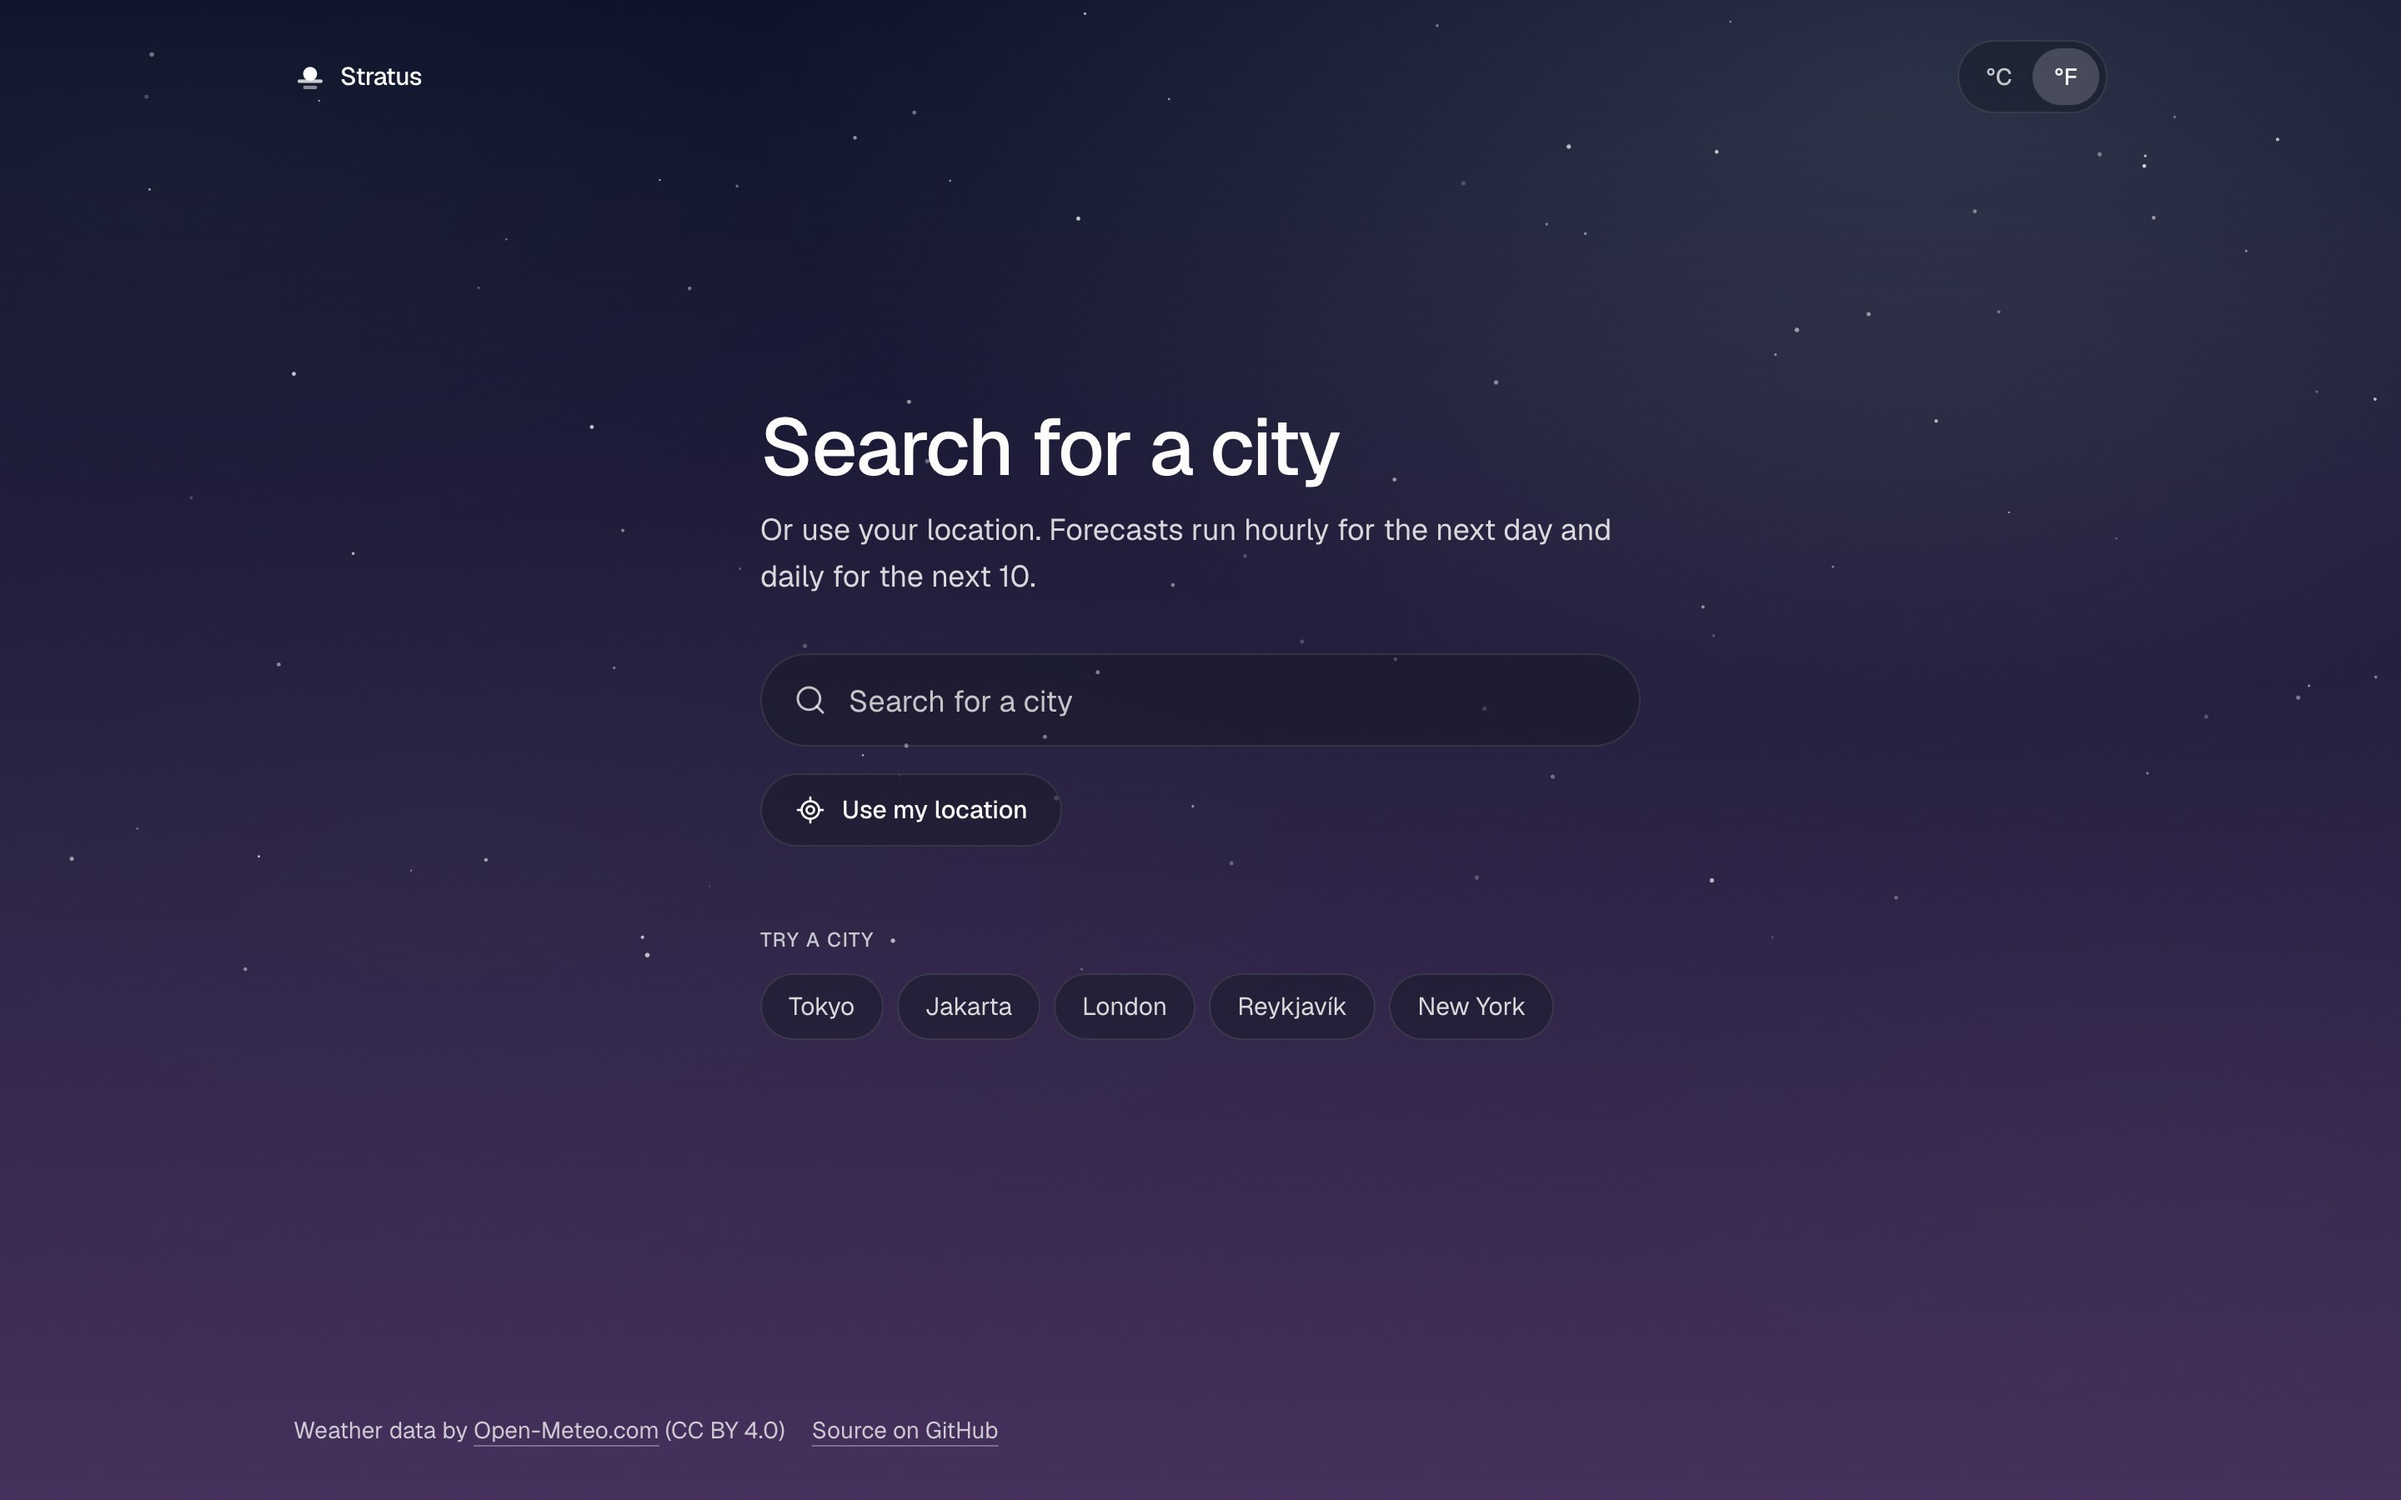
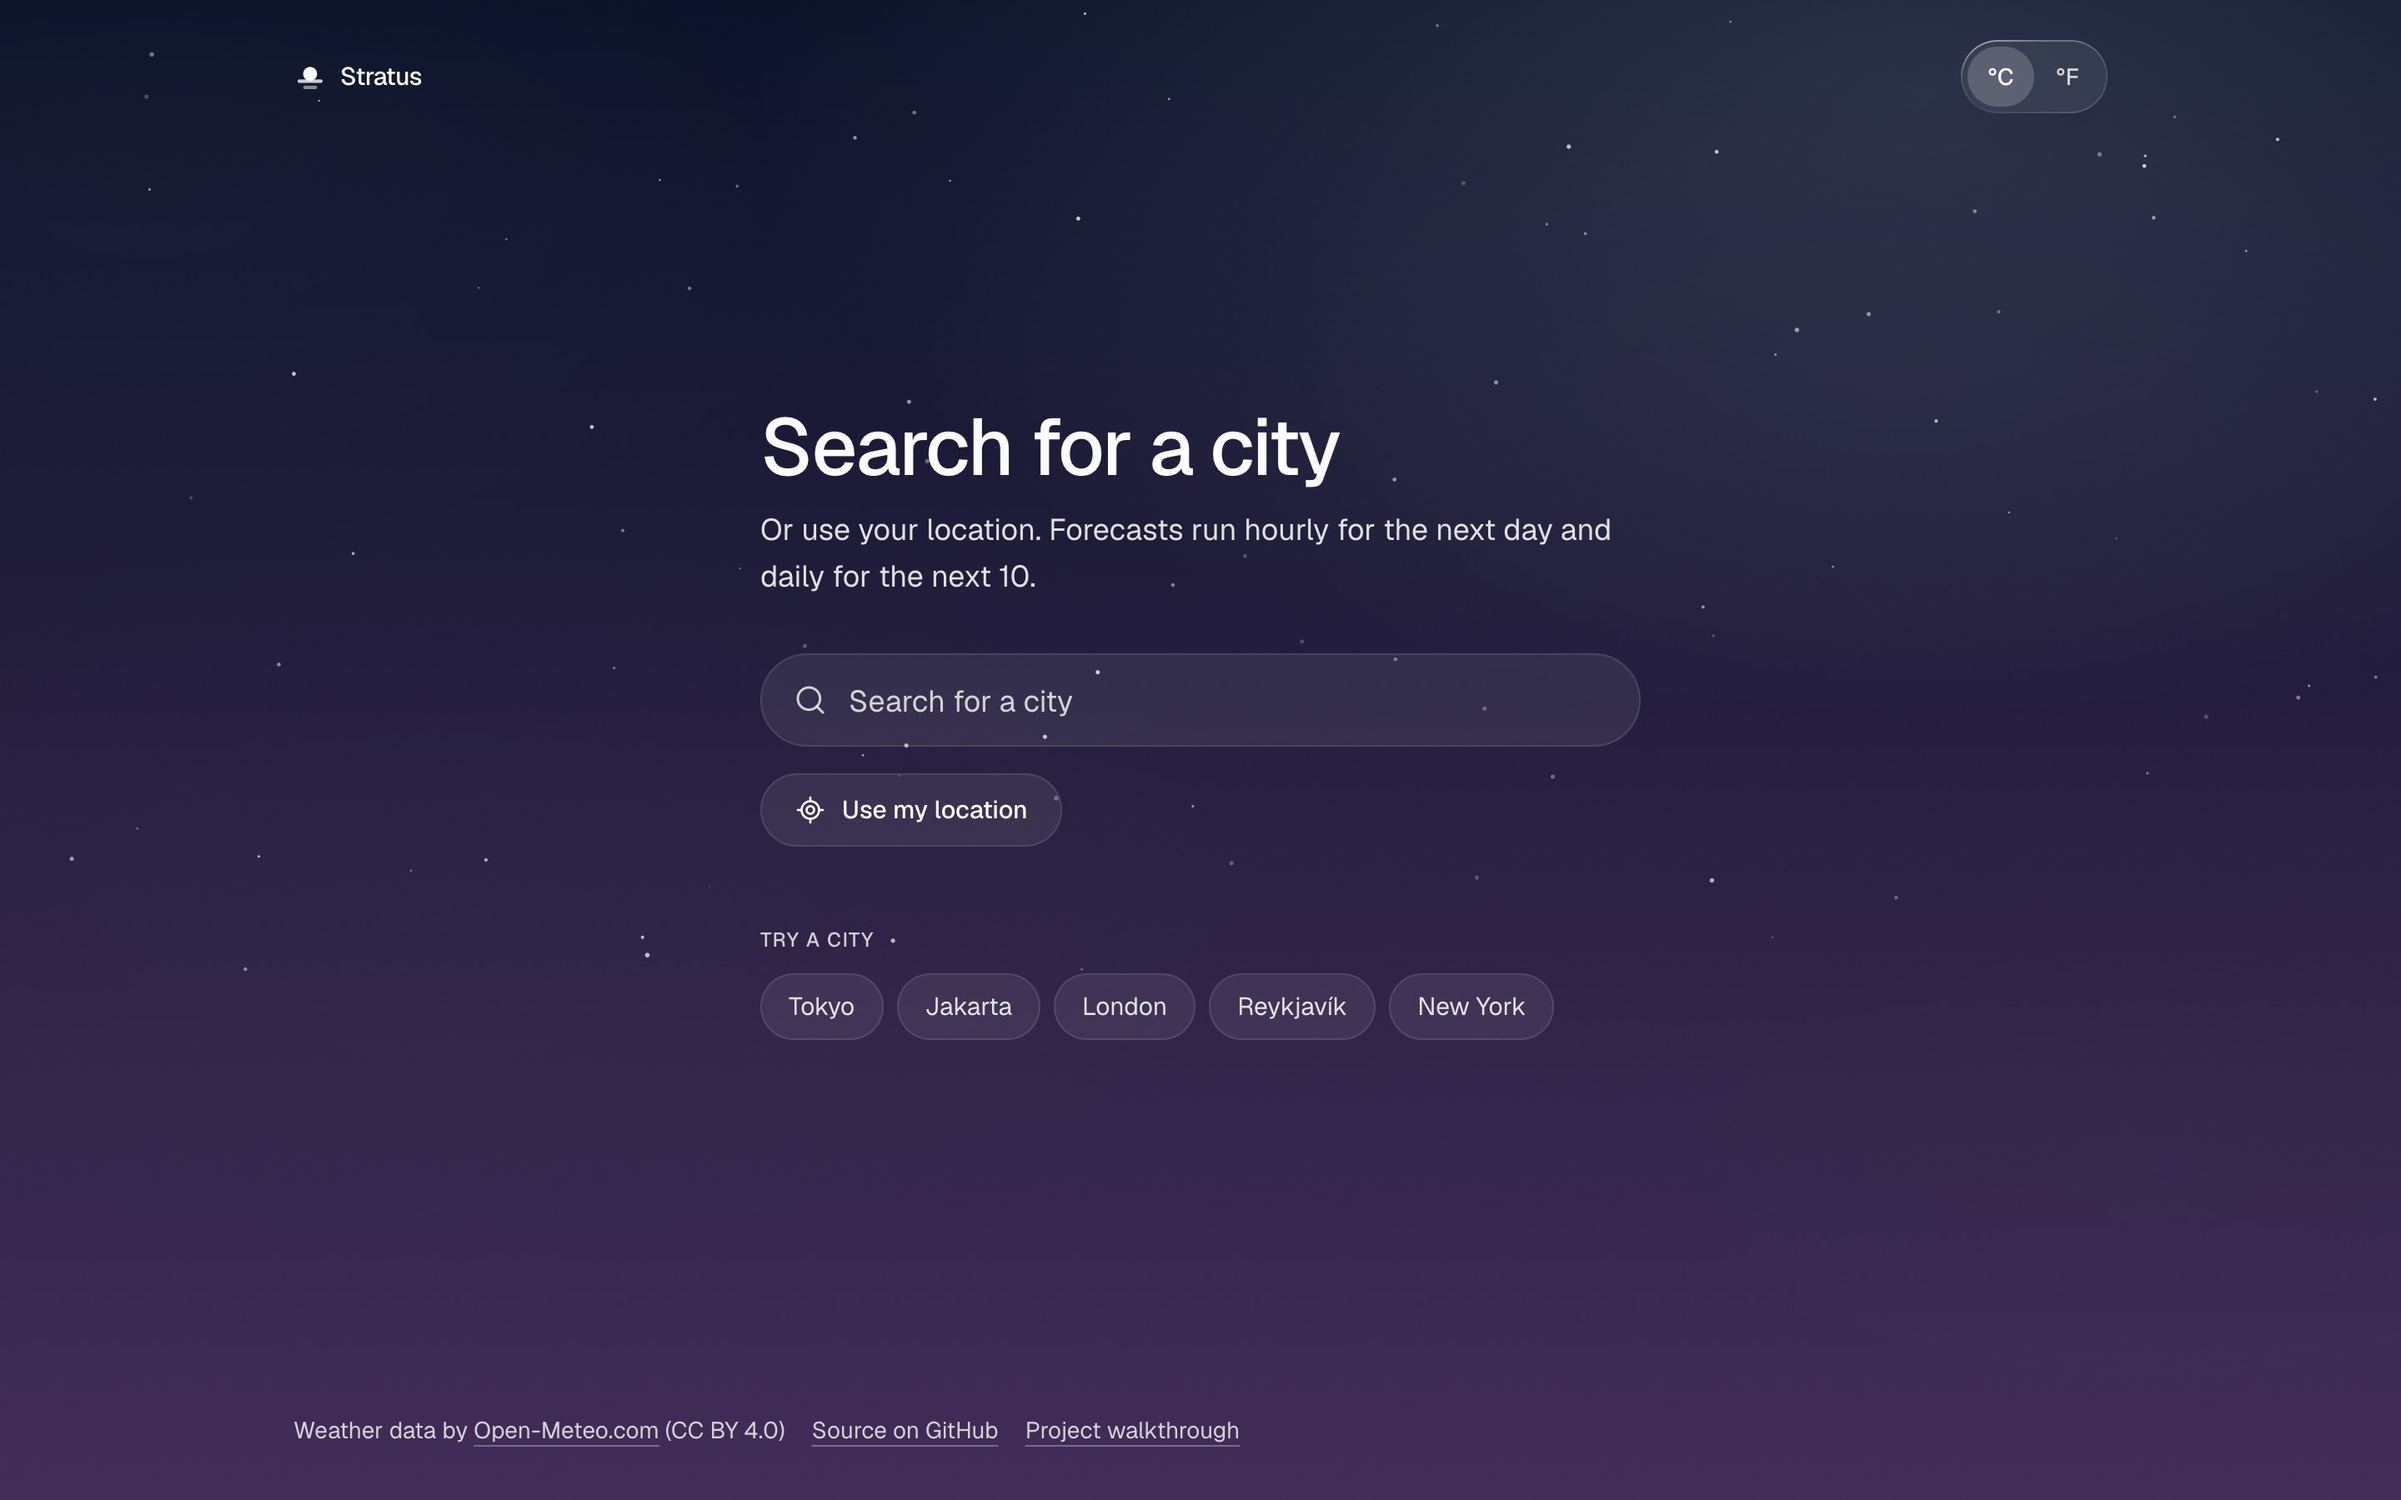
Fix glass panels not blurring in Chrome
Lightning CSS merged the standard and -webkit- backdrop-filter
declarations and kept only the prefixed one, which Chrome ignores, so
stars and rain showed through the panels unblurred. Writing only the
standard property lets the build add the prefix for Safari.

Screenshots move to names that describe the scene rather than the city.

diff --git a/src/app/about/page.tsx b/src/app/about/page.tsx
@@ -4,14 +4,14 @@ import Image, { type StaticImageData } from "next/image";
 import Link from "next/link";
 import type { ReactNode } from "react";
 
-import desktopChicago from "../../../docs/screenshots/desktop-chicago.jpg";
-import desktopDubai from "../../../docs/screenshots/desktop-dubai.jpg";
-import desktopJakarta from "../../../docs/screenshots/desktop-jakarta.jpg";
+import desktopDusk from "../../../docs/screenshots/desktop-dusk.jpg";
 import desktopLanding from "../../../docs/screenshots/desktop-landing.jpg";
+import desktopNight from "../../../docs/screenshots/desktop-night.jpg";
+import desktopRain from "../../../docs/screenshots/desktop-rain.jpg";
 import desktopSearch from "../../../docs/screenshots/desktop-search.jpg";
-import mobileChicago from "../../../docs/screenshots/mobile-chicago.jpg";
 import mobileDetails from "../../../docs/screenshots/mobile-details.jpg";
-import mobileDubai from "../../../docs/screenshots/mobile-dubai.jpg";
+import mobileDusk from "../../../docs/screenshots/mobile-dusk.jpg";
+import mobileRain from "../../../docs/screenshots/mobile-rain.jpg";
 import { WalkthroughVideo } from "@/components/about/walkthrough-video";
 import { Atmosphere } from "@/components/atmosphere/atmosphere";
 import { Logo, SiteFooter } from "@/components/site-chrome";
@@ -79,11 +79,11 @@ const DECISIONS: ReadonlyArray<{ title: string; body: string }> = [
 
 const DESKTOP_SHOTS: ReadonlyArray<{ image: StaticImageData; alt: string; caption: string }> = [
   {
-    image: desktopChicago,
-    alt: "Chicago on a cloudy morning with rain expected",
+    image: desktopRain,
+    alt: "Chicago in light rain on a grey morning",
     caption: "Rain on the way",
   },
-  { image: desktopJakarta, alt: "Jakarta on a clear night with stars", caption: "Clear night" },
+  { image: desktopNight, alt: "Jakarta on a clear night with stars", caption: "Clear night" },
   { image: desktopSearch, alt: "City search with suggestions for “san”", caption: "Search" },
   {
     image: desktopLanding,
@@ -93,8 +93,8 @@ const DESKTOP_SHOTS: ReadonlyArray<{ image: StaticImageData; alt: string; captio
 ];
 
 const MOBILE_SHOTS: ReadonlyArray<{ image: StaticImageData; alt: string }> = [
-  { image: mobileDubai, alt: "Dubai at dusk on a phone" },
-  { image: mobileChicago, alt: "Chicago before rain on a phone" },
+  { image: mobileDusk, alt: "Helsinki at dusk on a phone" },
+  { image: mobileRain, alt: "Chicago in light rain on a phone" },
   { image: mobileDetails, alt: "Detail cards on a phone" },
 ];
 
@@ -220,8 +220,8 @@ export default function AboutPage() {
 
         <Section title="Screenshots">
           <Shot
-            image={desktopDubai}
-            alt="Dubai at dusk: 32°, clear, with the next 24 hours and the 10-day forecast"
+            image={desktopDusk}
+            alt="Helsinki at dusk: 14°, sunny, with the next 24 hours and the 10-day forecast"
             sizes="(min-width: 1024px) 64rem, 100vw"
           />
           <div className="mt-4 grid gap-4 sm:grid-cols-2">

diff --git a/src/app/globals.css b/src/app/globals.css
@@ -41,7 +41,6 @@
   border-radius: 1.5rem;
   background-color: var(--color-panel);
   backdrop-filter: blur(28px) saturate(180%);
-  -webkit-backdrop-filter: blur(28px) saturate(180%);
   box-shadow:
     inset 0 1px 0 0 oklch(100% 0 0 / 0.2),
     0 16px 40px -20px oklch(0% 0 0 / 0.45);

diff --git a/README.md b/README.md
@@ -1,20 +1,20 @@
 # Stratus
 
-A weather app for any city: current conditions, the next 24 hours, the next 10 days, UV and air quality. The background is drawn from the forecast itself, so a clear evening in Dubai and a wet morning in Chicago look like what they are.
+A weather app for any city: current conditions, the next 24 hours, the next 10 days, UV and air quality. The background is drawn from the forecast itself, so dusk in Helsinki and a wet morning in Chicago look like what they are.
 
 Built with Next.js 16, React 19, TypeScript and Tailwind CSS 4. Weather data comes from [Open-Meteo](https://open-meteo.com), which needs no API key, so the project runs after `npm install` with nothing to configure.
 
 **Live: [stratus-weather.vercel.app](https://stratus-weather.vercel.app)**
 
-![Stratus showing Dubai at dusk: 32°, clear, with the hourly and 10-day forecast](docs/screenshots/desktop-dubai.jpg)
+![Stratus showing Helsinki at dusk: 14°, sunny, with the hourly and 10-day forecast](docs/screenshots/desktop-dusk.jpg)
 
-| Rain, daytime                                                                           | Clear, night                                                                 |
-| --------------------------------------------------------------------------------------- | ---------------------------------------------------------------------------- |
-| ![Chicago on a cloudy morning with rain expected](docs/screenshots/desktop-chicago.jpg) | ![Jakarta on a clear night with stars](docs/screenshots/desktop-jakarta.jpg) |
+| Rain, daytime                                                                 | Clear, night                                                               |
+| ----------------------------------------------------------------------------- | -------------------------------------------------------------------------- |
+| ![Chicago in light rain on a grey morning](docs/screenshots/desktop-rain.jpg) | ![Jakarta on a clear night with stars](docs/screenshots/desktop-night.jpg) |
 
 <p>
-  <img src="docs/screenshots/mobile-dubai.jpg" width="32%" alt="Dubai at dusk on a phone">
-  <img src="docs/screenshots/mobile-chicago.jpg" width="32%" alt="Chicago before rain on a phone">
+  <img src="docs/screenshots/mobile-dusk.jpg" width="32%" alt="Helsinki at dusk on a phone">
+  <img src="docs/screenshots/mobile-rain.jpg" width="32%" alt="Chicago in light rain on a phone">
   <img src="docs/screenshots/mobile-details.jpg" width="32%" alt="Detail cards on a phone: UV, air quality, wind, sunset, feels like, humidity, precipitation, visibility">
 </p>
 
@@ -29,7 +29,7 @@ Built with Next.js 16, React 19, TypeScript and Tailwind CSS 4. Weather data com
 - **Details that come with advice.** UV index and until when to use sun protection, US AQI and what the level means, wind with direction and gusts, feels-like with the reason, humidity with dew point, rain expected in the next 24 hours and the next wet day, visibility, and sunrise or sunset with the sun's position.
 - **°C and °F.** Switching is instant and does not refetch anything. The choice is remembered, and first-time visitors from the US get °F.
 - **Local time.** Every time on screen is in the searched city's time zone. Checking Tokyo from Jakarta shows Tokyo's 3 PM.
-- **Link previews.** A shared link unfurls into an image of the place, its temperature and its current sky ([example](docs/screenshots/og-dubai.png)), rendered on request and cached for 10 minutes.
+- **Link previews.** A shared link unfurls into an image of the place, its temperature and its current sky ([example](docs/screenshots/og-preview.png)), rendered on request and cached for 10 minutes.
 - **Shareable links.** The place lives in the URL (`/?lat=35.69&lon=139.69&name=Tokyo`), so a forecast can be bookmarked, refreshed or sent to someone.
 
 ## The sky
@@ -38,7 +38,7 @@ It is the one expressive part of an otherwise quiet interface. For every forecas
 
 The scene is a set of CSS custom properties registered with `@property`, so choosing another city animates the sky from one state to the next. It is rendered on the server, so the first paint already has the right sky. The canvas pauses when the tab is hidden and never starts when the system asks for reduced motion. There are no lightning flashes, for people who are sensitive to flashing light.
 
-The panels are clear glass: a light tint and a strong blur, so the sky's colour comes through, with a rim of light along the edge. By day the tint is a faint smoke; at night it turns to frost, the way the cards in Apple's Weather app gain body after dark.
+The panels are clear glass: a light tint and a strong blur, so the sky's color comes through, with a rim of light along the edge. By day the tint is a faint smoke; at night it turns to frost, the way the cards in Apple's Weather app gain body after dark.
 
 Clear glass makes contrast a real risk, so readability has a test. It checks 32 combinations of weather and time of day, with the brightest part of a cloud, haze or the sun's glow behind the text, and fails the build if secondary text drops below WCAG AA (4.5:1) on the sky or on a panel. The lowest value it measures today is 4.65:1.
 
